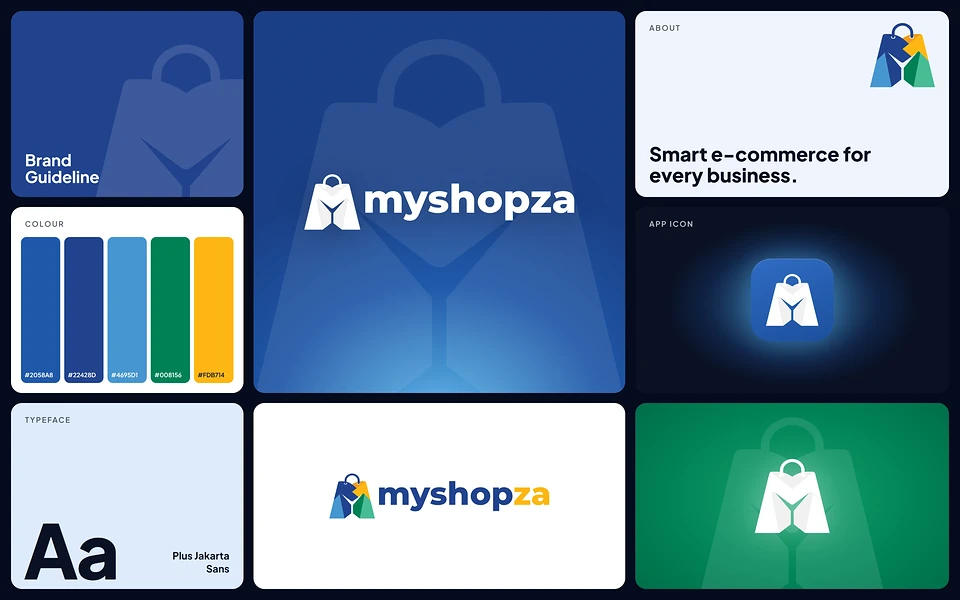
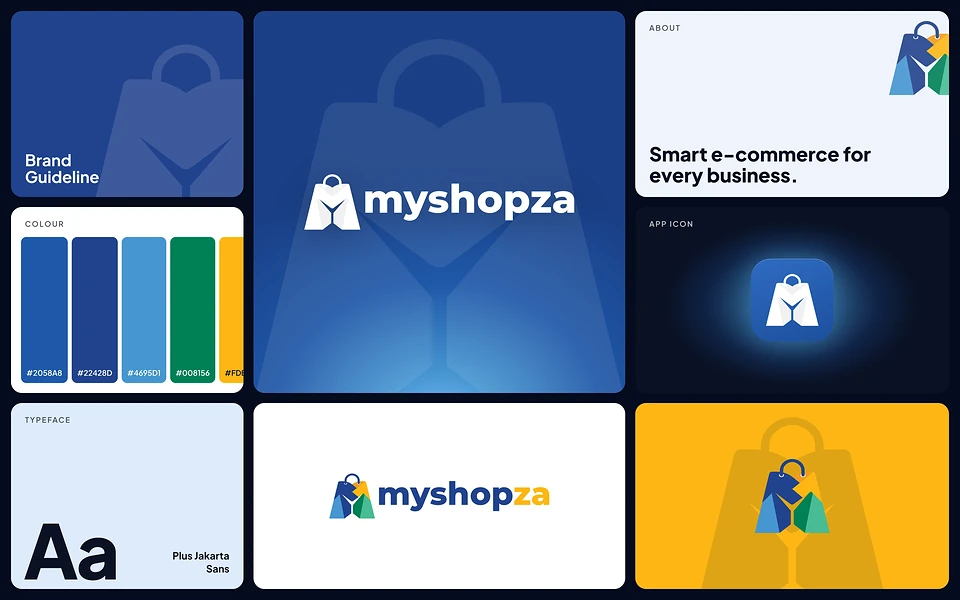
Auto-sync: update 8 file(s)
assets/images/projects/myshopza/cover-info.json assets/images/projects/myshopza/cover.webp assets/images/projects/myshopza/cover@1400.webp assets/images/projects/myshopza/cover@2000.webp assets/images/projects/myshopza/cover@640.webp

Changed region(s): [[0.6562, 0.66, 1.0, 0.99], [0.0312, 0.39, 0.2812, 0.66], [0.9062, 0.03, 1.0, 0.18]]

diff --git a/projects/myshopza.html b/projects/myshopza.html
@@ -123,7 +123,7 @@ symbol .mz-wm .mz-b,symbol .mz-wm .mz-n{fill:var(--lt,#22428d)}symbol .mz-wm .mz
       <p class="cs-outcome"><b>Outcome</b> A logo for Myshopza's e-commerce software: a shopping bag that also reads as an M, delivered with light and dark lockups, app icons and favicons.</p>
       <div class="cs-meta"><span>Logo</span><span>Brand identity</span><span>UX/UI design</span></div>
     </section>
-    <div class="cs-shot" data-slide style="view-transition-name:shot-myshopza;view-transition-class:shot"><img src="/assets/images/projects/myshopza/cover.webp" width="3840" height="2400" alt="Myshopza brand guideline grid: the white logo glowing on blue, colour palette, app icon, Plus Jakarta Sans typeface and the full-colour logo" fetchpriority="high" decoding="sync" /></div>
+    <div class="cs-shot" data-slide style="view-transition-name:shot-myshopza;view-transition-class:shot"><img src="/assets/images/projects/myshopza/cover.webp" width="3840" height="2400" alt="Myshopza brand guideline grid: the white logo glowing on blue, colour palette, app icon, Plus Jakarta Sans typeface and the full-colour logo on white and on yellow" fetchpriority="high" decoding="sync" /></div>
 
     <!-- The brand presentation -->
     <div class="mz-deck mz-x"><section class="mz-s mz-auto mz-ov"><div class="mz-in"><span class="mz-pill">Project overview</span>
